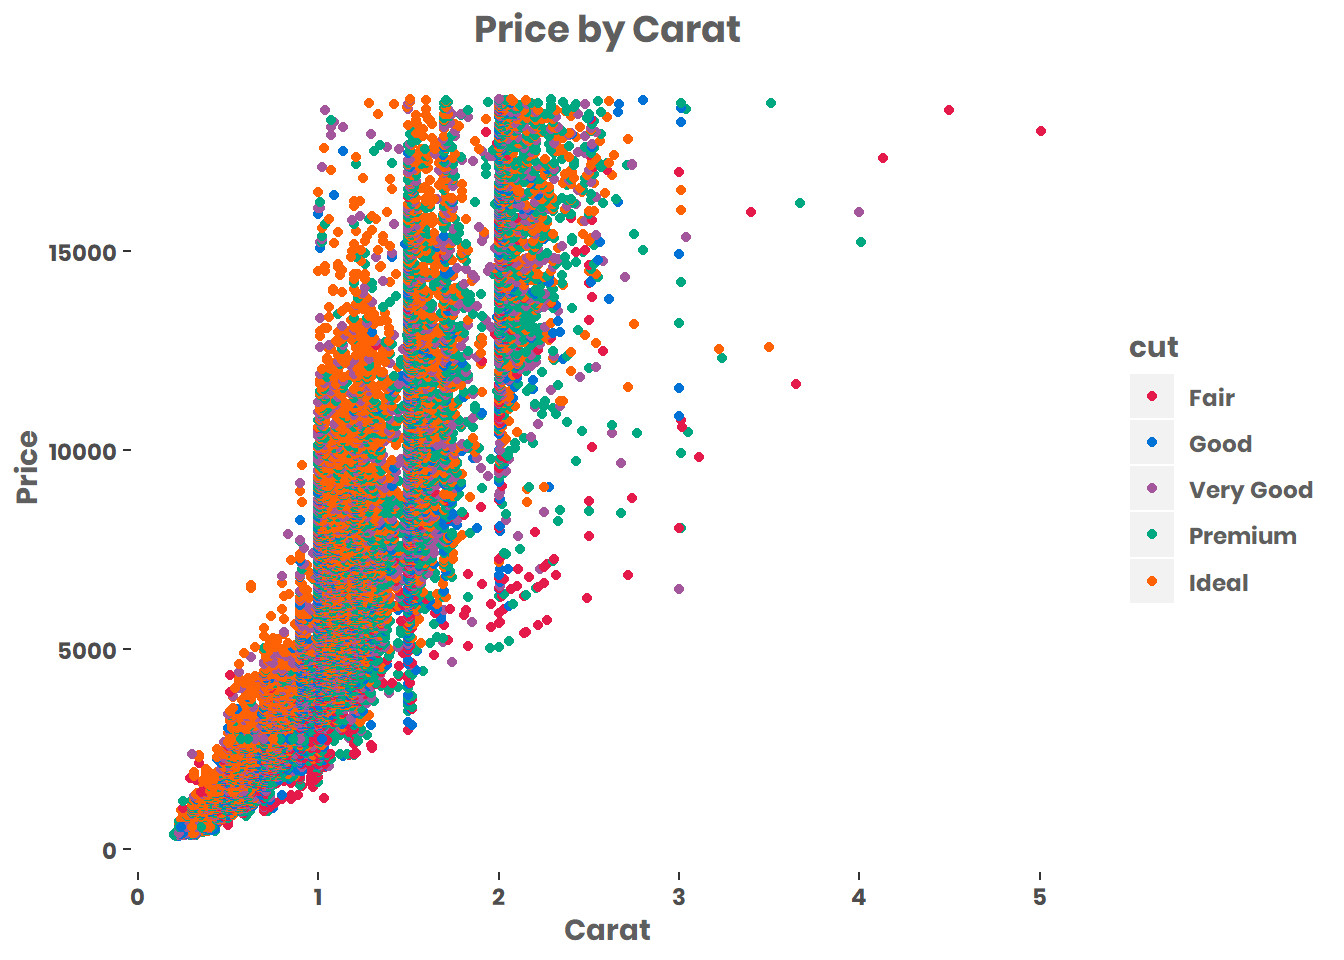
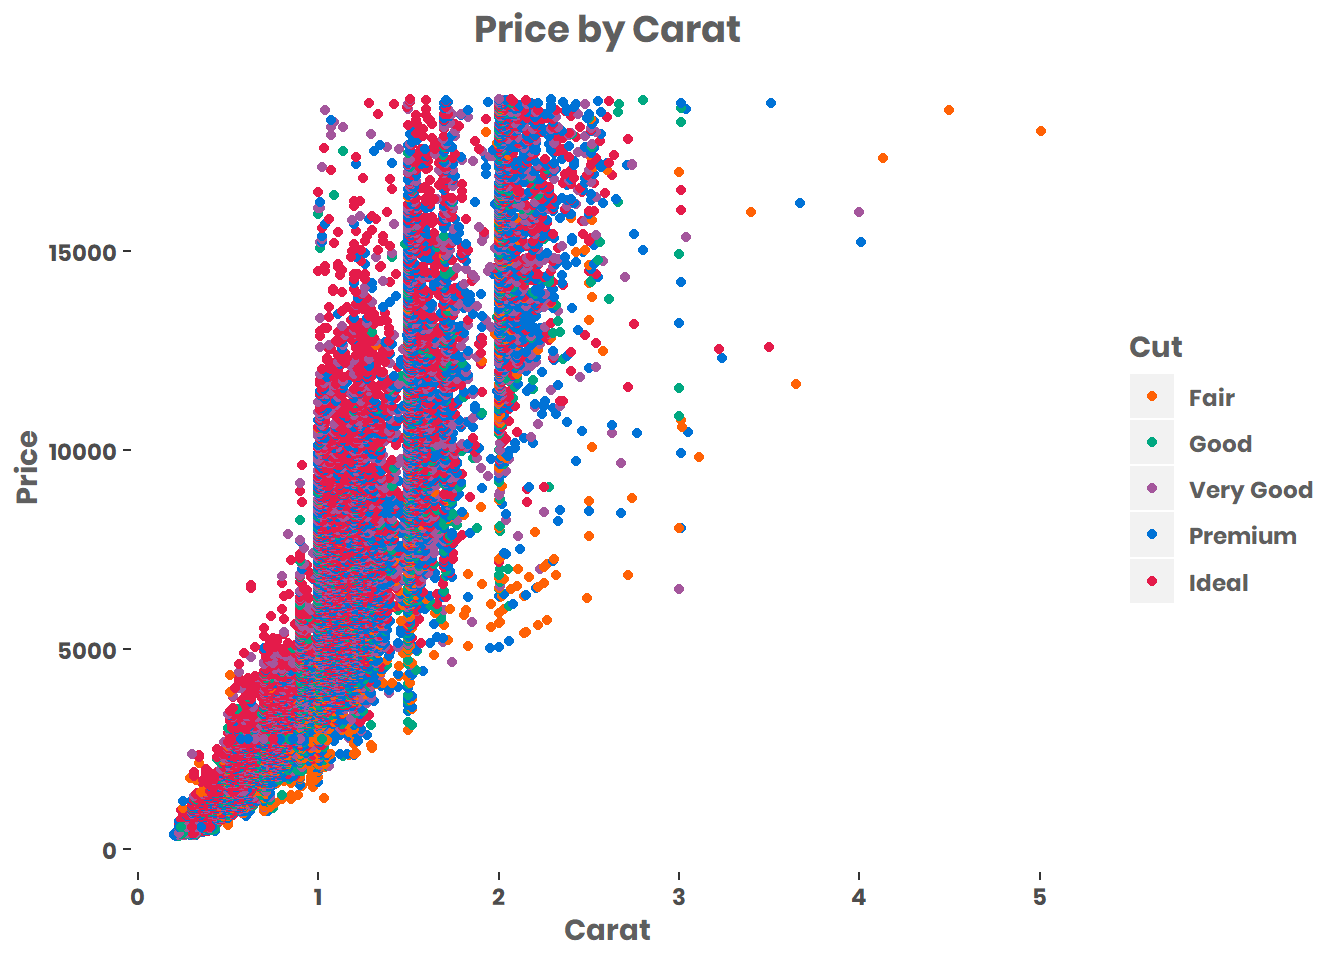
changed chart colours

diff --git a/Cookbook.html b/Cookbook.html
@@ -486,7 +486,7 @@ div.tocify {
 <p>use <code>se_colour</code> in plots to assign the Sport England house colours.</p>
 <div class="sourceCode"><pre class="sourceCode r"><code class="sourceCode r"><span class="co"># Set colour scheme</span>
 se_colour &lt;-<span class="st"> </span><span class="kw">c</span>( <span class="st">&quot;#e41b4a&quot;</span>, <span class="st">&quot;#0072d6&quot;</span>, <span class="st">&quot;#a4569c&quot;</span>, <span class="st">&quot;#00a881&quot;</span>, <span class="st">&quot;#ff6105&quot;</span>)
-se_colour__inverse &lt;-<span class="st"> </span><span class="kw">c</span>(<span class="st">&quot;#ff6105&quot;</span>, <span class="st">&quot;#00a881&quot;</span>, <span class="st">&quot;#a4569c&quot;</span>, <span class="st">&quot;#0072d6&quot;</span>, <span class="st">&quot;#e41b4a&quot;</span>)
+se_colour_inverse &lt;-<span class="st"> </span><span class="kw">c</span>(<span class="st">&quot;#ff6105&quot;</span>, <span class="st">&quot;#00a881&quot;</span>, <span class="st">&quot;#a4569c&quot;</span>, <span class="st">&quot;#0072d6&quot;</span>, <span class="st">&quot;#e41b4a&quot;</span>)
 se_colour_gradient &lt;-<span class="st"> </span><span class="kw">c</span>(<span class="st">&quot;#003F69&quot;</span>, <span class="kw">alpha</span>(<span class="st">&quot;#003F69&quot;</span>, <span class="fl">0.8</span>), <span class="kw">alpha</span>(<span class="st">&quot;#003F69&quot;</span>, <span class="fl">0.6</span>), <span class="kw">alpha</span>(<span class="st">&quot;#003F69&quot;</span>, <span class="fl">0.4</span>), <span class="kw">alpha</span>(<span class="st">&quot;#003F69&quot;</span>, <span class="fl">0.2</span>)) <span class="co"># changes transparency</span></code></pre></div>
 </div>
 <div id="scatter-plot" class="section level2">
@@ -501,8 +501,8 @@ plot.point.v1 &lt;-<span class="st"> </span><span class="kw">ggplot</span>(<span
 <span class="st">  </span><span class="kw">theme</span>(<span class="dt">text =</span> <span class="kw">element_text</span>(<span class="dt">family =</span> <span class="st">&quot;Poppins&quot;</span>, <span class="dt">color =</span> <span class="st">&quot;#5F5F5F&quot;</span>), 
         <span class="dt">plot.title=</span><span class="kw">element_text</span>(<span class="dt">size=</span><span class="dv">14</span>,<span class="dt">family =</span> <span class="st">&quot;Poppins&quot;</span>, <span class="dt">face=</span><span class="st">&quot;bold&quot;</span>, <span class="dt">hjust =</span> <span class="fl">0.5</span>), 
         <span class="dt">panel.background  =</span>  <span class="kw">element_blank</span>() ) <span class="op">+</span><span class="st"> </span>
-<span class="st">  </span><span class="kw">labs</span>( <span class="dt">x=</span> <span class="st">&quot;Carat&quot;</span>, <span class="dt">y =</span> <span class="st">&quot;Price&quot;</span>, <span class="dt">title =</span> <span class="st">&quot;Price by Carat&quot;</span>, <span class="dt">fill =</span> <span class="st">&quot;Cut&quot;</span>) <span class="op">+</span>
-<span class="st">  </span><span class="kw">scale_color_manual</span>(<span class="dt">values=</span> se_colour) <span class="op">+</span>
+<span class="st">  </span><span class="kw">labs</span>( <span class="dt">x=</span> <span class="st">&quot;Carat&quot;</span>, <span class="dt">y =</span> <span class="st">&quot;Price&quot;</span>, <span class="dt">title =</span> <span class="st">&quot;Price by Carat&quot;</span>) <span class="op">+</span>
+<span class="st">  </span><span class="kw">scale_color_manual</span>(<span class="dt">values=</span> se_colour_inverse, <span class="dt">name =</span> <span class="st">&#39;Cut&#39;</span>) <span class="op">+</span>
 <span class="st">  </span><span class="kw">scale_y_continuous</span>(<span class="dt">labels =</span> scales<span class="op">::</span><span class="kw">dollar_format</span>(<span class="dt">prefix =</span> <span class="st">&quot;£&quot;</span>)) <span class="co"># reformat scales to currency</span>
 plot.point.v1</code></pre></div>
 <pre><code>## `geom_smooth()` using method = &#39;gam&#39; and formula &#39;y ~ s(x, bs = &quot;cs&quot;)&#39;</code></pre>
